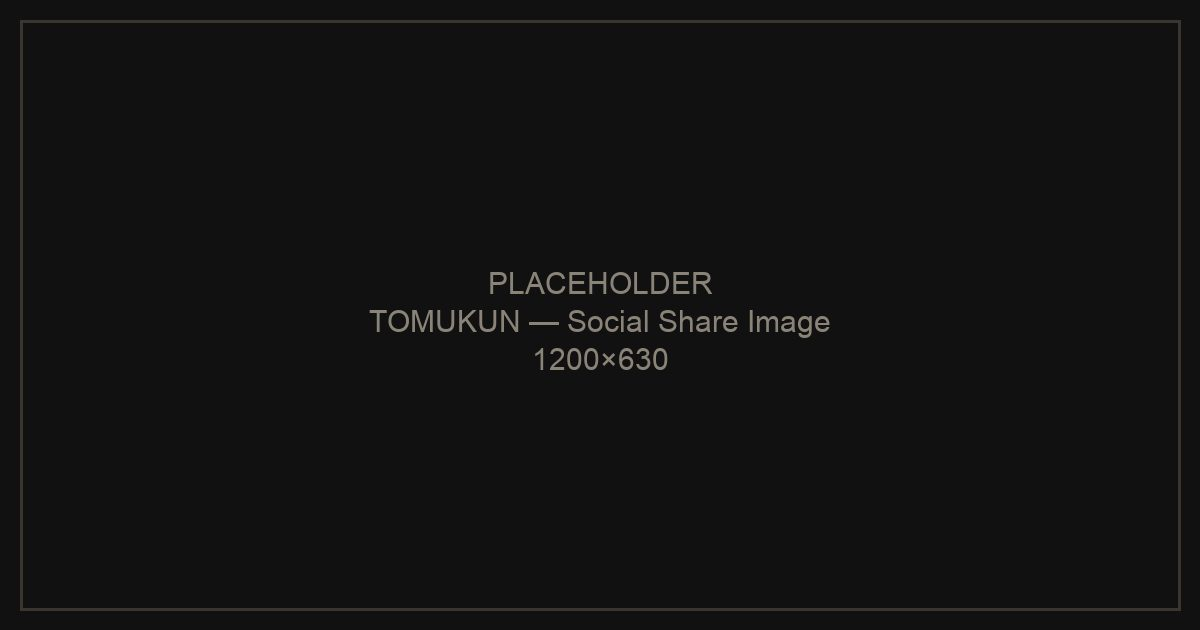
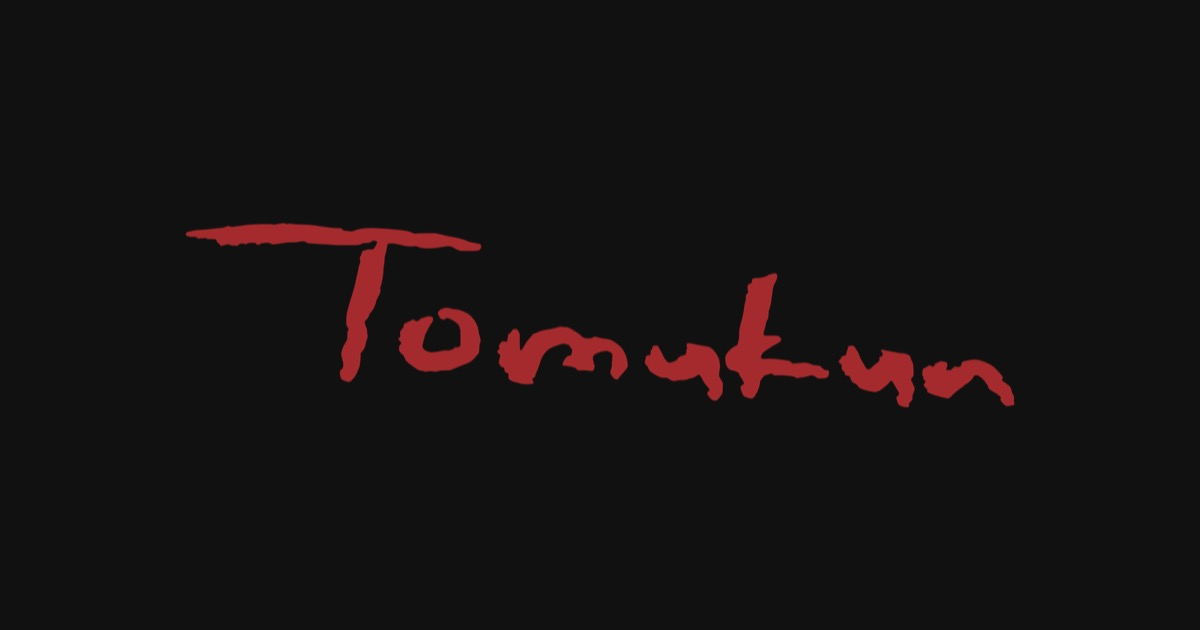
changed placeholder image for social sharing

Changed region(s): [[0.1542, 0.3317, 0.8633, 0.6635], [0.0, 0.0302, 0.9867, 0.0603], [0.0308, 0.9651, 0.9867, 0.9952]]

diff --git a/PLACEHOLDERS.md b/PLACEHOLDERS.md
@@ -14,8 +14,14 @@ Location: `/public/images/`. Full list, purpose, and required dimensions: see
   directed, but still flagged `PLACEHOLDER —` in the alt text
   ([pages/about.js](pages/about.js)) since it isn't the real thing. Replace
   with an actual portrait of Tom Yon when available.
+- `og-image.jpg` — **real, no longer a placeholder.** Social share preview now
+  shows the `tomukun-logo.svg` wordmark centered on a dark background, sized
+  to the standard 1200×630 Open Graph dimensions (`public/brand/tomukun-logo.svg`
+  rasterized and composited — see [components/Layout.js](components/Layout.js)
+  for the `og:image` tag). Swap for real food/lifestyle photography later if
+  the client wants something more visual than the logo mark.
 - Still placeholders: `bbq-grill-01.jpg`, `bbq-interior-01.jpg`, `noodle-ramen-01.jpg`,
-  `noodle-interior-01.jpg`, `og-image.jpg`
+  `noodle-interior-01.jpg`
 
 ## Brand assets
 - `/public/brand/logo.svg` — text wordmark placeholder, replace with final logo file.

diff --git a/public/images/README.md b/public/images/README.md
@@ -19,7 +19,7 @@ a concept button crossfades to that concept's hero photo full-page instead. See
 | `noodle-ramen-01.jpg` | Noodle Bar supporting image (ramen bowl) | 1600×1067 | 3:2 |
 | `noodle-interior-01.jpg` | Noodle Bar supporting image (dining room) | 1600×1067 | 3:2 |
 | `about-founder.jpg` | About page portrait of Tom Yon | 1200×1500 | 4:5 |
-| `og-image.jpg` | Social share preview (Open Graph) | 1200×630 | 1.91:1 |
+| `og-image.jpg` | **Real.** Social share preview (Open Graph) — `tomukun-logo.svg` wordmark centered on a dark background | 1200×630 | 1.91:1 |
 
 ## Menu images
 
